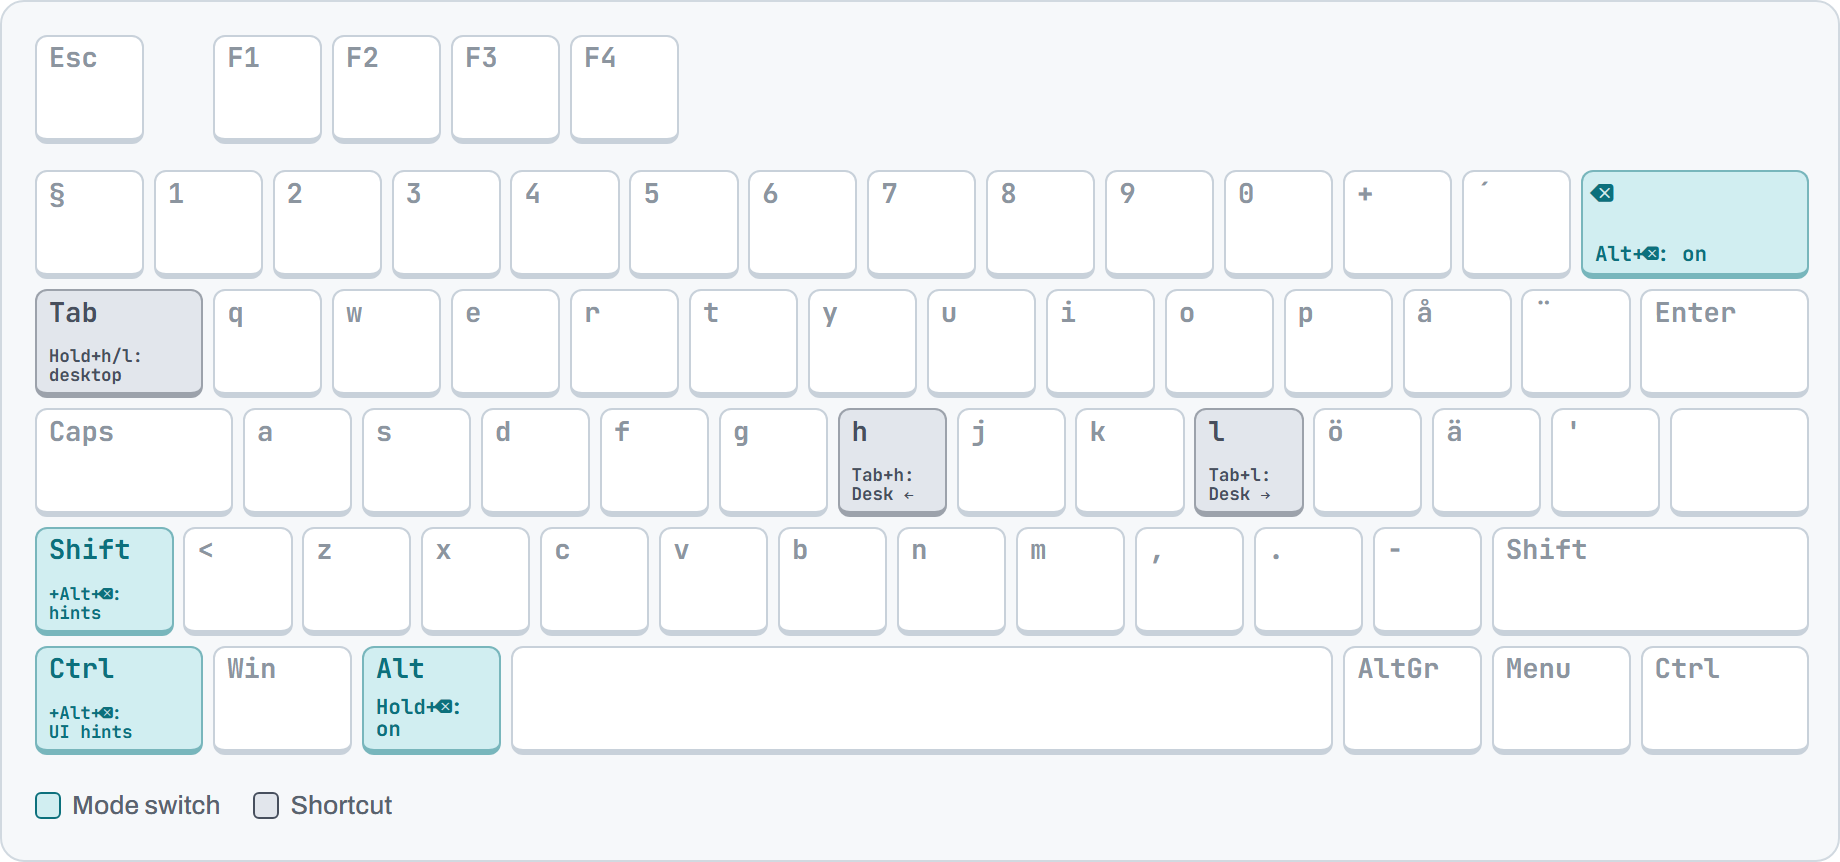
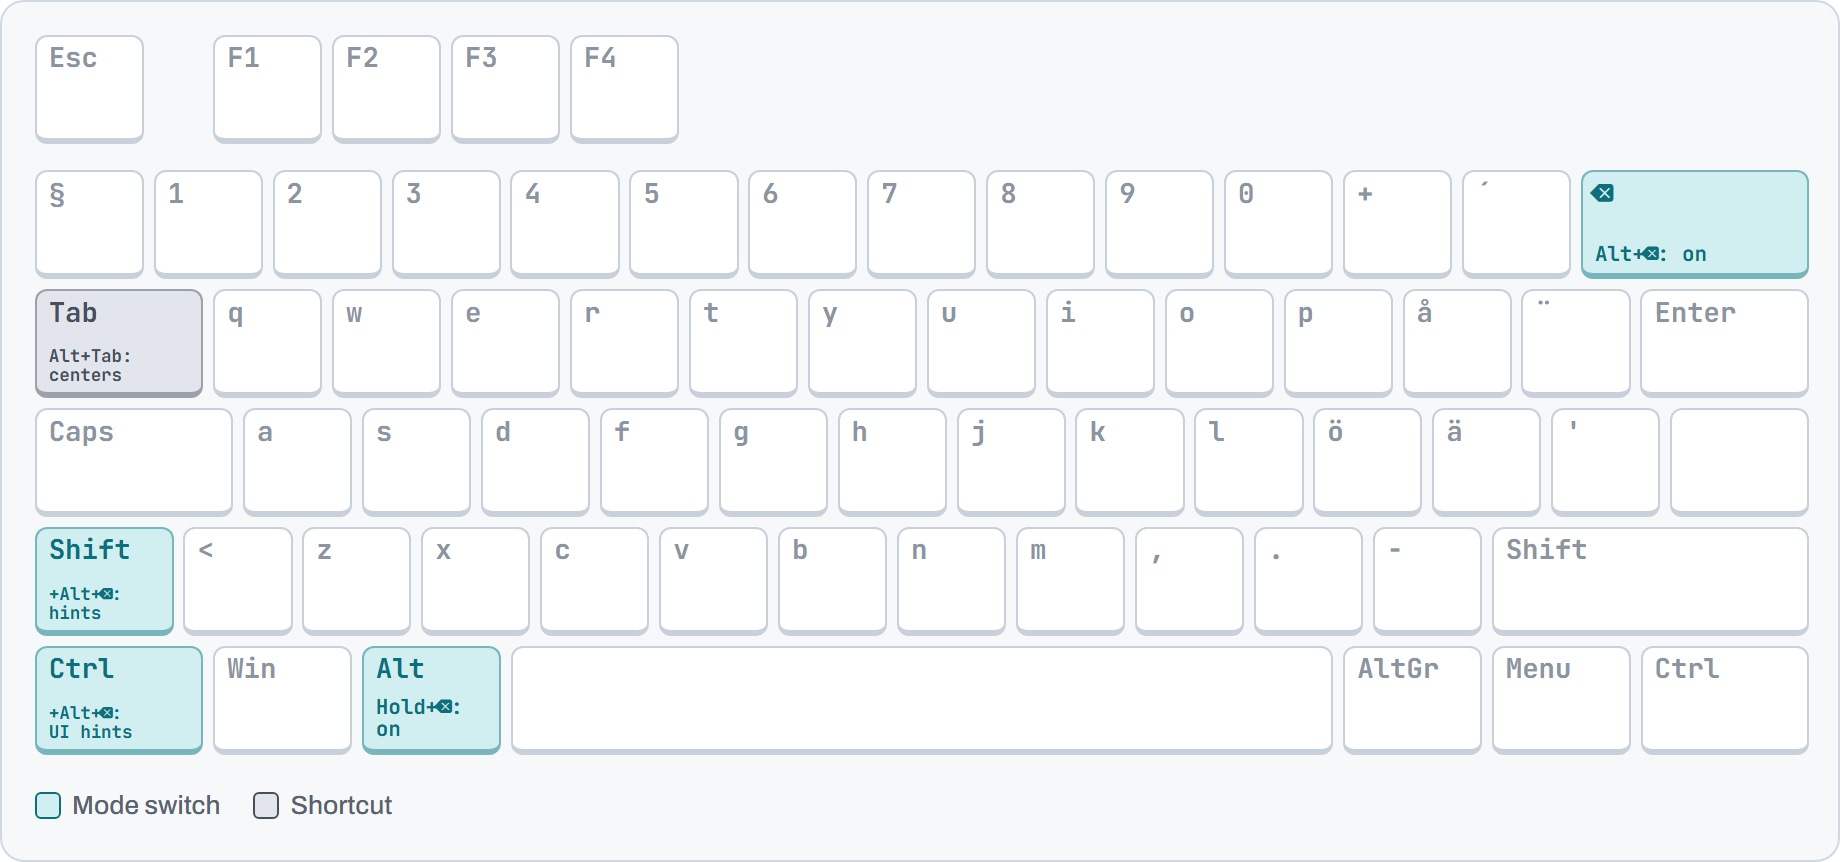
Center the pointer after Alt+Tab, drop the Tab desktop combos
After Alt+Tab, the pointer moves to the center of the window it switched
to, with mousemaster on or off, as in neo-mousekeys v94. Tab+h and Tab+l
no longer switch virtual desktops, and the arrow aliases only they used
are gone.

The README and the Normal and Off keyboard images show Alt+Tab on Tab.

Changed region(s): [[0.4337, 0.4524, 0.5266, 0.6032], [0.6505, 0.4524, 0.7125, 0.6032], [0.031, 0.3921, 0.0929, 0.4524]]

diff --git a/images/keyboard.html b/images/keyboard.html
@@ -280,9 +280,7 @@
                     bksp: ["mode", "Alt+⌫: on"],
                     lshift: ["mode", "+Alt+⌫: hints"],
                     lctrl: ["mode", "+Alt+⌫: UI hints"],
-                    tab: ["nav", "Hold+h/l: desktop"],
-                    h: ["nav", "Tab+h: Desk ←"],
-                    l: ["nav", "Tab+l: Desk →"],
+                    tab: ["nav", "Alt+Tab: centers"],
                 },
                 normal: {
                     ...dirs(""),
@@ -312,7 +310,7 @@
                     f3: ["exit", "Off"],
                     t: ["nav", "Back"],
                     y: ["nav", "Fwd"],
-                    tab: ["nav", "Hold+h/l: desktop"],
+                    tab: ["nav", "Alt+Tab: centers"],
                 },
                 edge: {
                     ...dirs("Snap"),

diff --git a/README.md b/README.md
@@ -72,7 +72,7 @@ Arrow keys do the same as <kbd>h</kbd> <kbd>j</kbd> <kbd>k</kbd> <kbd>l</kbd> fo
 |---|---|
 | <kbd>Ctrl</kbd> + any click key | Ctrl-click |
 | <kbd>t</kbd> / <kbd>y</kbd> | Back / forward (sends <kbd>Alt</kbd>+<kbd>←</kbd> / <kbd>Alt</kbd>+<kbd>→</kbd>) |
-| <kbd>Tab</kbd>+<kbd>h</kbd> / <kbd>Tab</kbd>+<kbd>l</kbd> | Previous / next virtual desktop. Works when mousemaster is off too |
+| <kbd>Alt</kbd>+<kbd>Tab</kbd> | Switches window as usual, then centres the pointer on the new window. Works when mousemaster is off too |
 
 ## Other modes
 
